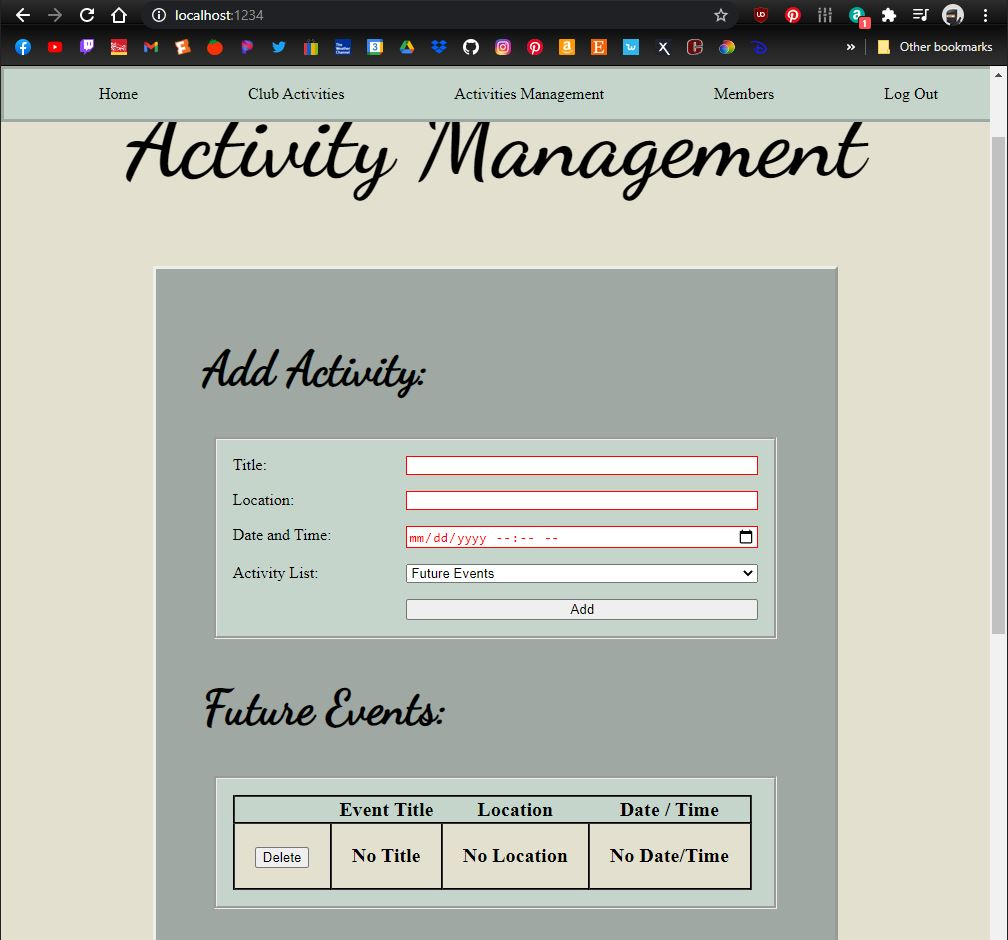
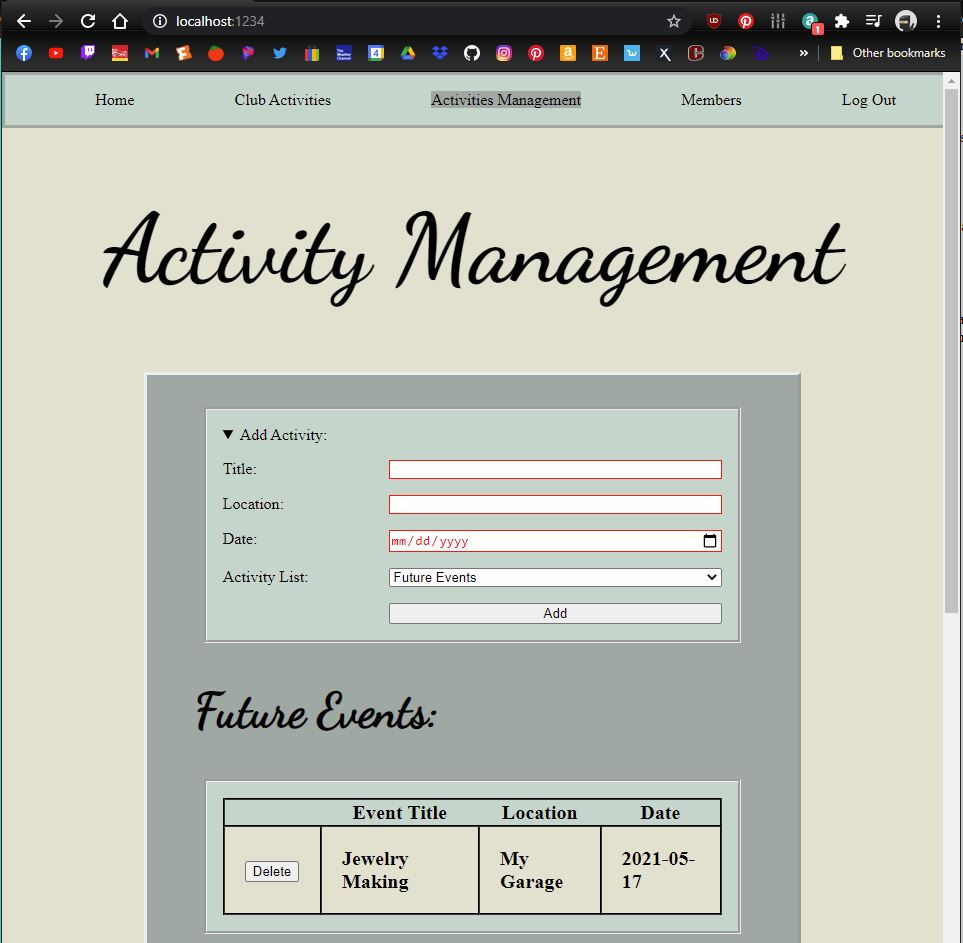
Fixed a few things... Optimized some code... usual...

diff --git a/clubReact/index.js b/clubReact/index.js
@@ -21,58 +21,48 @@ class App extends React.Component {
         this.state.nonclub = events.nonClubEvents;
     }
 
-    HomeHandler(event){
-        this.setState({show: "home"});
+    menuClick(item){
+        if(item === "logout"){
+            this.setState({role: "guest", show: "home"});
+        }
+        else {
+            this.setState({show: item});
+        }
     }
 
-    ActivitiesHandler(event){
-        this.setState({show: "activities"});
+    addActivity(a, list){
+        console.log("add");
+        if(list==="club"){
+            this.setState({events: this.state.events.concat(a) });
+            this.setState({show: "adminActivity"});
+            console.log("club");
+        }
+        else {
+            this.setState({nonclub: this.state.nonclub.concat(a) });
+            this.setState({show: "adminActivity"});
+            console.log("nonclub");
+        }
     }
 
-    membershipHandler(event){
-        this.setState({show: "membership"});
-    }
-
-    adminActivityHandler(event){
-        this.setState({show: "adminActivity"});
-    }
-
-    addActivityHandler(a){
-        this.setState({events: this.state.events.concat(a) })
-        this.setState({show: "adminActivity"})
-    };
-
-    addActivityNonClubHandler(a){
-        this.setState({nonclub: this.state.nonclub.concat(a) })
-        this.setState({show: "adminActivity"})
-    };
-
-    render() {
+render() {
         let content = null;
         // statements/logic to set the content variable based on state
         switch(this.state.show){
             case "home":
-                content = <Home role={this.state.role} />;
+                content = <Home />;
                 break;
             case "activities":
-                content = 
-                <Activities 
-                events={this.state.events} 
-                nonclub={this.state.nonclub} 
-                role={this.state.role} 
-                />; 
+                content = <Activities events={this.state.events} nonclub={this.state.nonclub} />; 
                 break;
             case "membership":
-                content = <Membership role={this.state.role} />;
+                content = <Membership />;
                 break;
             case "adminActivity":
                 content = 
                 <AdminActivity 
                 events={this.state.events} 
                 nonclub={this.state.nonclub} 
-                role={this.state.role} 
-                addE={this.addActivityHandler.bind(this)} 
-                addNCE={this.addActivityNonClubHandler.bind(this)} 
+                addAct={this.addActivity.bind(this)} 
                 />; 
                 break;
             default:
@@ -82,15 +72,12 @@ class App extends React.Component {
 
         return (
             <>
-                <Menu role={this.state.role} 
-                home={this.HomeHandler.bind(this)} 
-                activities={this.ActivitiesHandler.bind(this)} 
-                adminActivity={this.adminActivityHandler.bind(this)} 
-                membership={this.membershipHandler.bind(this)}/>
+                <Menu role={this.state.role} clicked={this.menuClick.bind(this)} shown={this.state.show} />
                 {content}
             </>
         );
     }
 }
+
 // Now rendering the App component!
 ReactDOM.render(<App />, document.getElementById("root"));

diff --git a/clubReact/AdminActivity.js b/clubReact/AdminActivity.js
@@ -3,7 +3,7 @@ import React from 'react';
 class AdminActivity extends React.Component {
     constructor(props) {
         super(props);
-        this.state = { events: [], nonClub: []};
+        this.state = { events: [], nonClub: [], title: "", };
     }
 
     handleSubmit = (event) => {
@@ -16,12 +16,11 @@ class AdminActivity extends React.Component {
         };
         console.log(newEvent);
         if(event.target.which.value == "future") {
-            this.props.addE(newEvent);
+            this.props.addAct(newEvent, "club");
         }
         else {
-            this.props.addNCE(newEvent);
+            this.props.addAct(newEvent, "nonClub");
         }
-        
     }
 
     render() {
@@ -48,27 +47,29 @@ class AdminActivity extends React.Component {
                 <h1>Activity Management</h1>
             </header>
             <main>
-                <h2>Add Activity:</h2>
-
                 <section className="gridContainer bordered2">
-                    <form onSubmit={this.handleSubmit}>
-                        <label>Title: </label>
-                        <input type="text" name="title" minLength="1" maxLength="50" required />
-                        
-                        <label>Location: </label>
-                        <input type="text" name="location" minLength="1" maxLength="50" required />
+                    <details>
+                        <summary>Add Activity:</summary>
+                        <form onSubmit={this.handleSubmit}>
+                            <label></label>
+                            <label>Title: </label>
+                            <input type="text" name="title" minLength="1" maxLength="50" required />
+                            
+                            <label>Location: </label>
+                            <input type="text" name="location" minLength="1" maxLength="50" required />
 
-                        <label>Date: </label>
-                        <input type="date" name="dateTime" minLength="1" maxLength="50" required />
+                            <label>Date: </label>
+                            <input type="date" name="dateTime" minLength="1" maxLength="50" required />
 
-                        <label>Activity List: </label>
-                        <select name="which">
-                            <option value="future">Future Events</option>
-                            <option value="nonClub">Non-Club Events</option>
-                        </select>
-                        
-                        <button type="submit">Add</button>
-                    </form>
+                            <label>Activity List: </label>
+                            <select name="which">
+                                <option value="future">Future Events</option>
+                                <option value="nonClub">Non-Club Events</option>
+                            </select>
+                            
+                            <button type="submit">Add</button>
+                        </form>
+                    </details>
                 </section>
 
                 <h2>Future Events:</h2>

diff --git a/clubReact/menu.js b/clubReact/menu.js
@@ -1,33 +1,41 @@
 import React from 'react';
 
 function Menu(props) {
+    function isActive(name){
+        if(name===props.shown){
+            return "active";
+        }
+        else {
+            return "";
+        }
+    }
     let content = null;
     switch(props.role){
         case "admin":
             content = 
                 <ul>
-                    <li onClick={props.home}>Home</li>
-                    <li onClick={props.activities}>Club Activities</li>
-                    <li onClick={props.adminActivity}>Activities Management</li>
+                    <li key="home"><a className={isActive("home")} onClick={props.clicked.bind(null, "home")}>Home</a></li>
+                    <li key="activities"><a className={isActive("activities")} onClick={props.clicked.bind(null, "activities")}>Club Activities</a></li>
+                    <li key="adminActivity"><a className={isActive("adminActivity")} onClick={props.clicked.bind(null, "adminActivity")}>Activities Management</a></li>
                     <li>Members</li>
-                    <li>Log Out</li>
+                    <li key="logout"><a onClick={props.clicked.bind(null, "logout")}>Log Out</a></li>
                 </ul>
             break;
         case "user":
             content = 
                 <ul>
-                    <li onClick={props.home}>Home</li>
-                    <li onClick={props.activities}>Club Activities</li>
-                    <li>Log Out</li>
+                    <li key="home"><a className={isActive("home")} onClick={props.clicked.bind(null, "home")}>Home</a></li>
+                    <li key="activities"><a className={isActive("activities")} onClick={props.clicked.bind(null, "activities")}>Club Activities</a></li>
+                    <li key="logout"><a onClick={props.clicked.bind(null, "logout")}>Log Out</a></li>
                 </ul>
             break;
         default:
             content = 
                 <ul>
-                    <li onClick={props.home}>Home</li>
-                    <li onClick={props.activities}>Club Activities</li>
+                    <li key="home"><a className={isActive("home")} onClick={props.clicked.bind(null, "home")}>Home</a></li>
+                    <li key="activities"><a className={isActive("activities")} onClick={props.clicked.bind(null, "activities")}>Club Activities</a></li>
                     <li>Member Login</li>
-                    <li onClick={props.membership}>Sign Up</li>
+                    <li key="membership"><a className={isActive("membership")} onClick={props.clicked.bind(null, "membership")}>Sign Up</a></li>
                 </ul>
     };
 

diff --git a/README.md b/README.md
@@ -74,12 +74,12 @@ ReactDOM.render(<App />, document.getElementById("root"));
 
 ### (a)
 
-I added handlers for each of the possible pages/states that when called utilized the "setState" to set the state to the desired option. I then passed in a bound copy of each event handler that was bound to "this" into the menu.
+I added an event handler that when called utilized the "setState" to set the state to the desired given option. I then passed in a bound copy of each event handler that was bound to "this" into the menu.
 
 ```javascript
 return (
             <>
-                <Menu role={this.state.role} home={this.HomeHandler.bind(this)} activities={this.ActivitiesHandler.bind(this)} membership={this.membershipHandler.bind(this)}/>
+                <Menu role={this.state.role} clicked={this.menuClick.bind(this)} shown={this.state.show} />
                 {content}
             </>
         );
@@ -87,16 +87,17 @@ return (
 
 ### (b)
 
-I added and "onClick" event to each menu item that called the props.optionname which returned to the main and called the event handler.
+I added and "onClick" event to each menu item that called the props.clicked which I rebound with an added variable which returned to the main and called the proper event handler based on the passed variable.
 
 ```javascript
 content = 
     <ul>
-        <li onClick={props.home}>Home</li>
-        <li onClick={props.activities}>Club Activities</li>
-        <li>Member Login</li>
-        <li onClick={props.membership}>Sign Up</li>
-    </ul>
+                    <li key="home"><a className={isActive("home")} onClick={props.clicked.bind(null, "home")}>Home</a></li>
+                    <li key="activities"><a className={isActive("activities")} onClick={props.clicked.bind(null, "activities")}>Club Activities</a></li>
+                    <li key="adminActivity"><a className={isActive("adminActivity")} onClick={props.clicked.bind(null, "adminActivity")}>Activities Management</a></li>
+                    <li>Members</li>
+                    <li key="logout"><a onClick={props.clicked.bind(null, "logout")}>Log Out</a></li>
+                </ul>
 ```
 
 ## Question 4
@@ -130,27 +131,29 @@ return <React.Fragment>
                 <h1>Activity Management</h1>
             </header>
             <main>
-                <h2>Add Activity:</h2>
-
                 <section className="gridContainer bordered2">
-                    <form onSubmit={this.handleSubmit}>
-                        <label>Title: </label>
-                        <input type="text" name="title" minLength="1" maxLength="50" required />
-                        
-                        <label>Location: </label>
-                        <input type="text" name="location" minLength="1" maxLength="50" required />
+                    <details>
+                        <summary>Add Activity:</summary>
+                        <form onSubmit={this.handleSubmit}>
+                            <label></label>
+                            <label>Title: </label>
+                            <input type="text" name="title" minLength="1" maxLength="50" required />
+                            
+                            <label>Location: </label>
+                            <input type="text" name="location" minLength="1" maxLength="50" required />
 
-                        <label>Date: </label>
-                        <input type="date" name="dateTime" minLength="1" maxLength="50" required />
+                            <label>Date: </label>
+                            <input type="date" name="dateTime" minLength="1" maxLength="50" required />
 
-                        <label>Activity List: </label>
-                        <select name="which">
-                            <option value="future">Future Events</option>
-                            <option value="nonClub">Non-Club Events</option>
-                        </select>
-                        
-                        <button type="submit">Add</button>
-                    </form>
+                            <label>Activity List: </label>
+                            <select name="which">
+                                <option value="future">Future Events</option>
+                                <option value="nonClub">Non-Club Events</option>
+                            </select>
+                            
+                            <button type="submit">Add</button>
+                        </form>
+                    </details>
                 </section>
 
 ```
@@ -169,24 +172,27 @@ handleSubmit = (event) => {
         };
         console.log(newEvent);
         if(event.target.which.value == "future") {
-            this.props.addE(newEvent);
+            this.props.addAct(newEvent, "club");
         }
         else {
-            this.props.addNCE(newEvent);
+            this.props.addAct(newEvent, "nonClub");
         }
-        
     }
 ```
 
 index.js:
 ```javascript
-addActivityHandler(a){
-        this.setState({events: this.state.events.concat(a) })
-        this.setState({show: "adminActivity"})
-    };
-
-    addActivityNonClubHandler(a){
-        this.setState({nonclub: this.state.nonclub.concat(a) })
-        this.setState({show: "adminActivity"})
-    };
+addActivity(a, list){
+        console.log("add");
+        if(list==="club"){
+            this.setState({events: this.state.events.concat(a) });
+            this.setState({show: "adminActivity"});
+            console.log("club");
+        }
+        else {
+            this.setState({nonclub: this.state.nonclub.concat(a) });
+            this.setState({show: "adminActivity"});
+            console.log("nonclub");
+        }
+    }
 ```
